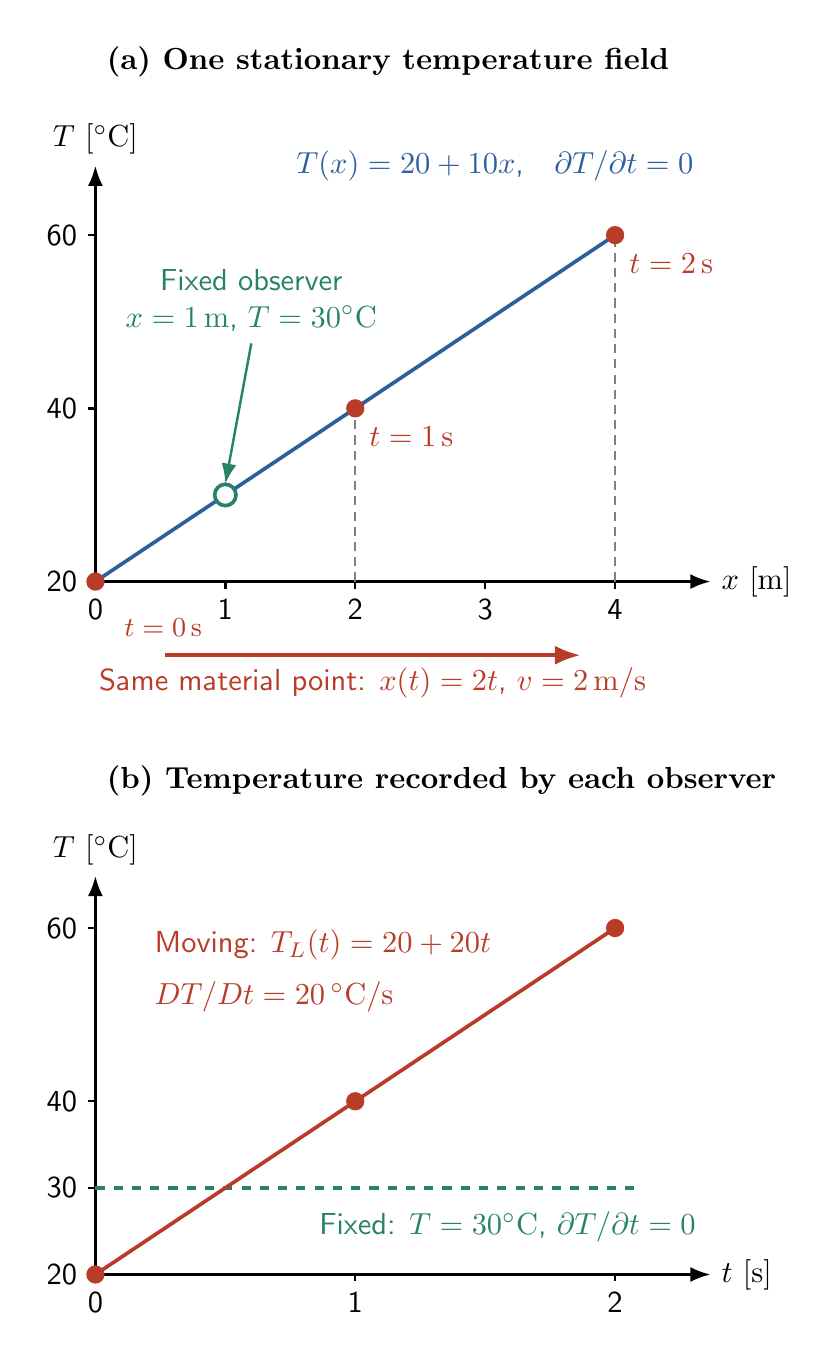
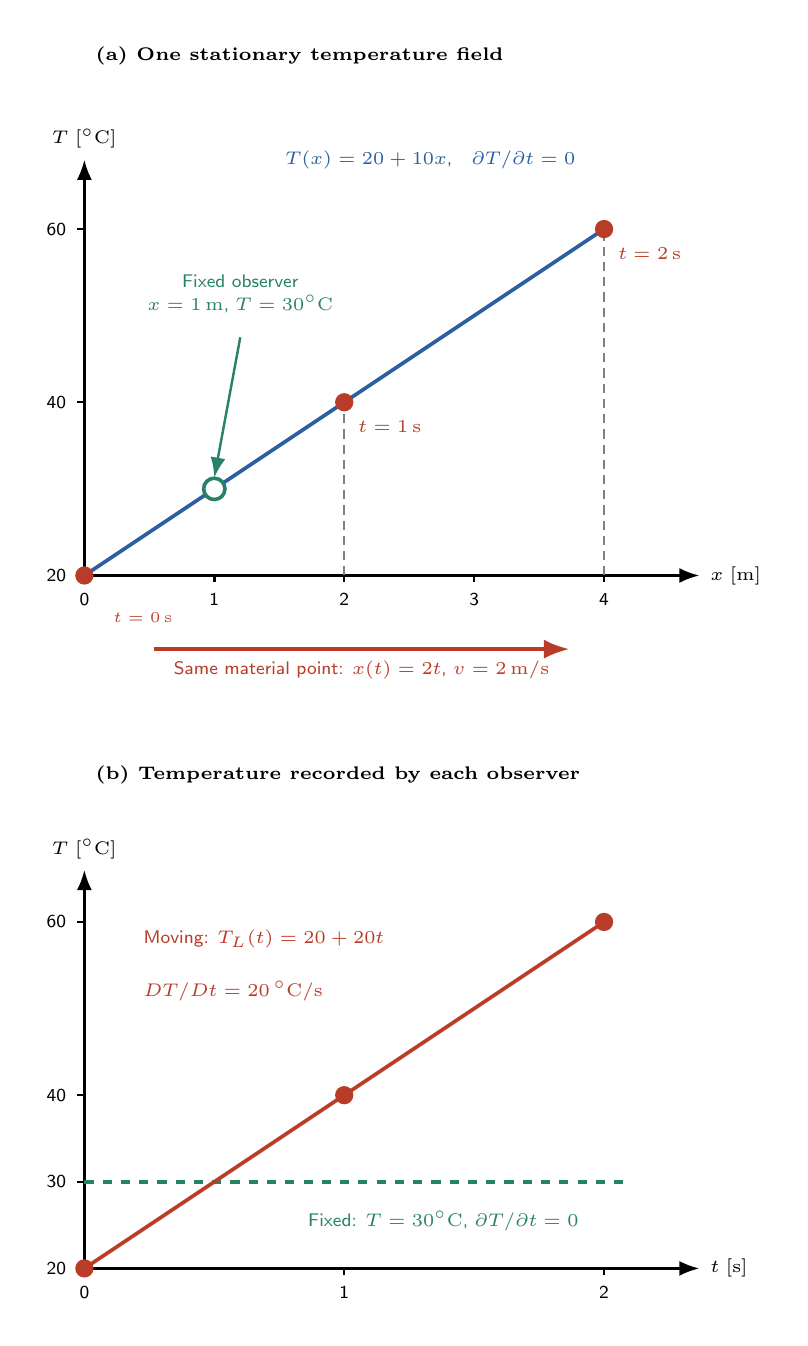
Fontsize adjusted in various tikz pictures

diff --git a/assets/tikz/metal_plasticity/extrusion_three_descriptions.tex b/assets/tikz/metal_plasticity/extrusion_three_descriptions.tex
@@ -11,15 +11,22 @@
 \draw[black!70,thick] (3.6,1.4)--(5,.55)--(7,.55);
 \draw[black!70,thick] (3.6,-1.4)--(5,-.55)--(7,-.55);
 }
+
+% Web figure typography: 220 dpi gives about 18 px for 6 pt text
+% at natural PNG size. Keep text smaller than diagram geometry.
+\newcommand{\figtext}{\fontsize{6}{7.5}\selectfont}
+\newcommand{\fignote}{\fontsize{5.5}{7}\selectfont}
+\newcommand{\figmath}{\fontsize{7}{8.5}\selectfont}
+\newcommand{\figtitle}{\fontsize{7.5}{9}\selectfont}
 \begin{document}
 \hyphenpenalty=10000
 \exhyphenpenalty=10000
-\begin{tikzpicture}[>=Latex,font=\sffamily,line join=round]
-\node[font=\Large\bfseries,align=center] at (3.5,4.8) {Extrusion\\Eulerian, Lagrangian and ALE};
+\begin{tikzpicture}[>=Latex,font=\sffamily\figtext,line join=round]
+\node[font=\figtitle\bfseries,align=center] at (3.5,4.8) {Extrusion\\Eulerian, Lagrangian and ALE};
 \node[text=gray!80!black,align=center] at (3.6,3.55) {Same material shape and die in every panel.\\Schematic meshes, not simulation results.};
 \foreach \dy/\title in {0/{(a) Eulerian: fixed background mesh},-8.3/{(b) Lagrangian: mesh follows material},-16.6/{(c) ALE: mesh motion chosen independently}}{
 \begin{scope}[shift={(0,\dy)}]
- \node[font=\bfseries,anchor=west] at (-.6,2.6) {\title};
+ \node[font=\figtext\bfseries,anchor=west] at (-.6,2.6) {\title};
  \fill[body] \bodypath;
 \end{scope}}
 % EULERIAN: fixed Cartesian cells cross the material boundary.
@@ -29,9 +36,9 @@
 \draw[flow,very thick] \bodypath;
 \draw[flow,->,very thick] (1.1,0)--(2.3,0);
 \draw[flow,->,very thick] (5.5,0)--(6.9,0);
-\node[flow,fill=white,inner sep=2pt,font=\small] at (1.8,.45) {Material flow};
-\node[font=\small,align=center,text width=8cm] at (3.5,-2.8) {$\boldsymbol w=\boldsymbol0$: material moves through fixed cells.\\Material interfaces can cut cells and need separate tracking.};
-\node[font=\small,align=center,text width=8cm] at (3.5,-4.5) {Fixed cells avoid deformation-induced mesh distortion.\\Moving material interfaces and contact require separate treatment.};
+\node[flow,fill=white,inner sep=2pt,font=\fignote] at (1.8,.45) {Material flow};
+\node[font=\fignote,align=center,text width=8cm] at (3.5,-2.8) {$\boldsymbol w=\boldsymbol0$: material moves through fixed cells.\\Material interfaces can cut cells and need separate tracking.};
+\node[font=\fignote,align=center,text width=8cm] at (3.5,-4.5) {Fixed cells avoid deformation-induced mesh distortion.\\Moving material interfaces and contact require separate treatment.};
 \end{scope}
 % LAGRANGIAN: a stylized convected mesh with skewed elements.
 \begin{scope}[shift={(0,-8.3)}]
@@ -46,8 +53,8 @@
 \draw[flow,very thick] \bodypath;
 \draw[flow,->,very thick] (1.1,0)--(2.3,0);
 \draw[flow,->,very thick] (5.5,0)--(6.9,0);
-\node[font=\small,align=center,text width=8cm] at (3.5,-2.8) {$\boldsymbol w=\boldsymbol v$: mesh points follow material.\\Material history stays with the mesh.};
-\node[font=\small,align=center,text width=8cm] at (3.5,-4.5) {A conforming mesh follows the material boundary.\\Large nonuniform deformation can severely distort elements.};
+\node[font=\fignote,align=center,text width=8cm] at (3.5,-2.8) {$\boldsymbol w=\boldsymbol v$: mesh points follow material.\\Material history stays with the mesh.};
+\node[font=\fignote,align=center,text width=8cm] at (3.5,-4.5) {A conforming mesh follows the material boundary.\\figtitle nonuniform deformation can severely distort elements.};
 \end{scope}
 % ALE: boundary fitted but interior mesh need not follow material.
 \begin{scope}[shift={(0,-16.6)}]
@@ -61,15 +68,15 @@
 \draw[flow,very thick] \bodypath;
 \draw[flow,->,very thick] (1.1,0)--(2.3,0);
 \draw[flow,->,very thick] (5.5,0)--(6.9,0);
-\node[font=\small,align=center,text width=8cm] at (3.5,-2.8) {Mesh velocity is chosen using quality and boundary constraints.\\Material crosses the mesh at $\boldsymbol v-\boldsymbol w$.};
-\node[font=\small,align=center,text width=8cm] at (3.5,-4.5) {Boundary-conforming mesh with controlled interior distortion.\\Mesh adjustment requires consistent transport of material history.};
+\node[font=\fignote,align=center,text width=8cm] at (3.5,-2.8) {Mesh velocity is chosen using quality and boundary constraints.\\Material crosses the mesh at $\boldsymbol v-\boldsymbol w$.};
+\node[font=\fignote,align=center,text width=8cm] at (3.5,-4.5) {Boundary-conforming mesh with controlled interior distortion.\\Mesh adjustment requires consistent transport of material history.};
 \end{scope}
 
 \draw[flow,very thick] (.3,-22.8)--(1,-22.8);
-\node[anchor=west,font=\small] at (1.3,-22.8) {Material boundary};
+\node[anchor=west,font=\fignote] at (1.3,-22.8) {Material boundary};
 \draw[meshblue,thin] (.3,-23.5)--(1,-23.5);
-\node[anchor=west,font=\small] at (1.3,-23.5) {Computational mesh};
+\node[anchor=west,font=\fignote] at (1.3,-23.5) {Computational mesh};
 \fill[pattern=north east lines,pattern color=gray!65] (.3,-24.4) rectangle (1,-24);
-\node[anchor=west,font=\small] at (1.3,-24.2) {Fixed die};
+\node[anchor=west,font=\fignote] at (1.3,-24.2) {Fixed die};
 \end{tikzpicture}
 \end{document}

diff --git a/assets/tikz/metal_plasticity/ale_mesh_comparison.tex b/assets/tikz/metal_plasticity/ale_mesh_comparison.tex
@@ -4,9 +4,16 @@
 \definecolor{mesh}{RGB}{40,105,170}
 \definecolor{particle}{RGB}{195,60,50}
 \definecolor{relative}{RGB}{20,135,105}
+
+% Web figure typography: 220 dpi gives about 18 px for 6 pt text
+% at natural PNG size. Keep text smaller than diagram geometry.
+\newcommand{\figtext}{\fontsize{6}{7.5}\selectfont}
+\newcommand{\fignote}{\fontsize{5.5}{7}\selectfont}
+\newcommand{\figmath}{\fontsize{7}{8.5}\selectfont}
+\newcommand{\figtitle}{\fontsize{7.5}{9}\selectfont}
 \begin{document}
-\begin{tikzpicture}[>=Latex,font=\sffamily,line cap=round]
-\node[font=\Large\bfseries] [align=center] at (2.25,8.3) {Material and mesh motion\\Three descriptions};
+\begin{tikzpicture}[>=Latex,font=\sffamily\figtext,line cap=round]
+\node[font=\figtitle\bfseries] [align=center] at (2.25,8.3) {Material and mesh motion\\Three descriptions};
 \node[text=gray!80!black,align=center] at (2.25,7.4) {$\boldsymbol v=(2,1)\,\mathrm{m/s}$\\$\Delta t=1\,\mathrm s$ in every panel};
 % One metre is represented by 0.7 cm in every spatial diagram.
 \foreach \offset/\title/\sx/\sy/\w/\rel in {
@@ -14,17 +21,17 @@
 -9/Lagrangian/1.4/0.7/{(2,1)}/{(0,0)},
 -18/ALE/0.7/0/{(1,0)}/{(1,1)}}{
 \begin{scope}[shift={(0,\offset)}]
-\node[font=\large\bfseries] at (2.25,6.7) {\title};
+\node[font=\figmath\bfseries] at (2.25,6.7) {\title};
 \node[mesh] at (2.25,6.2) {$\boldsymbol w=\w\,\mathrm{m/s}$};
-\node[anchor=west,font=\small\bfseries] at (0,5.7) {$t=0$};
+\node[anchor=west,font=\fignote\bfseries] at (0,5.7) {$t=0$};
 \begin{scope}[shift={(.2,3.8)}]\draw[mesh,step=.7,thin] (0,0) grid (2.8,1.4);\end{scope}
 % Highlight a specific mesh node, initially coincident with the material point.
 \draw[mesh,fill=white,line width=1pt] (.9,4.5) circle (4pt);
 \fill[particle] (.9,4.5) circle (2.4pt);
-\node[particle,anchor=west,font=\small,fill=white,inner sep=2pt] at (1.1,4.75) {Same material point};
+\node[particle,anchor=west,font=\fignote,fill=white,inner sep=2pt] at (1.1,4.75) {Same material point};
 \draw[->,gray] (4.4,4.9)--(4.4,3.55);
-\node[anchor=east,font=\small,text=gray] at (4.2,4) {$\Delta t$};
-\node[anchor=west,font=\small\bfseries] at (0,3.1) {$t=1\,\mathrm s$};
+\node[anchor=east,font=\fignote,text=gray] at (4.2,4) {$\Delta t$};
+\node[anchor=west,font=\fignote\bfseries] at (0,3.1) {$t=1\,\mathrm s$};
 % Old mesh is retained as a light reference; current mesh is solid blue.
 \begin{scope}[shift={(.2,.5)}]\draw[gray!35,dashed,step=.7,thin] (0,0) grid (2.8,1.4);\end{scope}
 \begin{scope}[shift={(\sx,\sy)}]
@@ -34,25 +41,25 @@
 \draw[particle!45,dashed,->] (.9,1.2)--(2.3,1.9);
 \draw[particle!45,fill=white] (.9,1.2) circle (2pt);
 \fill[particle] (2.3,1.9) circle (2.8pt);
-\node[particle,anchor=south,font=\small] at (2.3,2.12) {Material point};
-\node[mesh,anchor=north,font=\small] at (.9+\sx,.5+\sy-.14) {Same mesh node};
-\node[font=\small] at (2.25,-.35) {$\boldsymbol v-\boldsymbol w=\rel\,\mathrm{m/s}$};
+\node[particle,anchor=south,font=\fignote] at (2.3,2.12) {Material point};
+\node[mesh,anchor=north,font=\fignote] at (.9+\sx,.5+\sy-.14) {Same mesh node};
+\node[font=\fignote] at (2.25,-.35) {$\boldsymbol v-\boldsymbol w=\rel\,\mathrm{m/s}$};
 \end{scope}}
 
-\node[align=center,font=\small] at (2.25,-1.15) {Mesh stays fixed.\\Material passes through the mesh.};
-\node[align=center,font=\small] at (2.25,-10.15) {Mesh follows the material.\\The two markers stay together.};
-\node[align=center,font=\small] at (2.25,-19.15) {Mesh and material move differently.};
+\node[align=center,font=\fignote] at (2.25,-1.15) {Mesh stays fixed.\\Material passes through the mesh.};
+\node[align=center,font=\fignote] at (2.25,-10.15) {Mesh follows the material.\\The two markers stay together.};
+\node[align=center,font=\fignote] at (2.25,-19.15) {Mesh and material move differently.};
 \begin{scope}[shift={(.6,-22)}]
 \draw[mesh,->,very thick] (0,0)--(1.4,0) node[midway,below] {$\boldsymbol w$};
 \draw[draw=relative,->,very thick] (1.4,0)--(2.8,1.4) node[midway,right] {$\boldsymbol v-\boldsymbol w$};
 \draw[particle,->,very thick] (0,0)--(2.8,1.4) node[midway,above left] {$\boldsymbol v$};
 \end{scope}
-\node[font=\small,align=center,text=gray!80!black] at (2.25,-22.8) {Velocity triangle\\(separate scale)};
+\node[font=\fignote,align=center,text=gray!80!black] at (2.25,-22.8) {Velocity triangle\\(separate scale)};
 \fill[particle] (.3,-24) circle (2.8pt);
-\node[anchor=west,font=\small] at (.6,-24) {Material point};
+\node[anchor=west,font=\fignote] at (.6,-24) {Material point};
 \draw[mesh,fill=white,line width=1.2pt] (.3,-24.7) circle (4pt);
-\node[anchor=west,font=\small] at (.6,-24.7) {Tracked mesh node};
+\node[anchor=west,font=\fignote] at (.6,-24.7) {Tracked mesh node};
 \draw[gray!45,dashed] (.1,-25.4)--(.5,-25.4);
-\node[anchor=west,font=\small] at (.6,-25.4) {Initial mesh / position};
+\node[anchor=west,font=\fignote] at (.6,-25.4) {Initial mesh / position};
 \end{tikzpicture}
 \end{document}

diff --git a/assets/tikz/metal_plasticity/ale_extrusion_remapping.tex b/assets/tikz/metal_plasticity/ale_extrusion_remapping.tex
@@ -12,13 +12,20 @@
  \draw[thick] (3.6,-1.4)--(5,-.55)--(7,-.55);
 }
 
+
+% Web figure typography: 220 dpi gives about 18 px for 6 pt text
+% at natural PNG size. Keep text smaller than diagram geometry.
+\newcommand{\figtext}{\fontsize{6}{7.5}\selectfont}
+\newcommand{\fignote}{\fontsize{5.5}{7}\selectfont}
+\newcommand{\figmath}{\fontsize{7}{8.5}\selectfont}
+\newcommand{\figtitle}{\fontsize{7.5}{9}\selectfont}
 \begin{document}
-\begin{tikzpicture}[>=Latex,font=\sffamily,line join=round]
-\node[font=\Large\bfseries,align=center] at (3.5,5.7) {Extrusion\\ALE mesh rezoning};
-\node[font=\small,text=gray!80!black,align=center,text width=8cm] at (3.5,4.4) {Same physical time and material shape.\\Same mesh topology.\\Schematic meshes, not simulation results.};
+\begin{tikzpicture}[>=Latex,font=\sffamily\figtext,line join=round]
+\node[font=\figtitle\bfseries,align=center] at (3.5,5.7) {Extrusion\\ALE mesh rezoning};
+\node[font=\fignote,text=gray!80!black,align=center,text width=8cm] at (3.5,4.4) {Same physical time and material shape.\\Same mesh topology.\\Schematic meshes, not simulation results.};
 \foreach \panel/\dy/\title in {0/0/{(a) Before mesh smoothing},1/-9/{(b) After ALE mesh smoothing}}{
 \begin{scope}[shift={(0,\dy)}]
-\node[font=\bfseries] at (3.5,3.4) {\title};
+\node[font=\figtext\bfseries] at (3.5,3.4) {\title};
 \fill[material!40] \boundary;
 \begin{scope}
 \clip \boundary;
@@ -43,26 +50,26 @@
 \fill[gray!30] (-.35,-1.4) rectangle (0,1.4);
 \draw[thick] (-.35,-1.4) rectangle (0,1.4);
 \draw[->,very thick] (-.9,0)--(.8,0);
-\node[anchor=south,font=\small] at (.3,.2) {Ram};
+\node[anchor=south,font=\fignote] at (.3,.2) {Ram};
 \draw[->,very thick] (6.1,0)--(7.7,0);
-\node[anchor=south,font=\small] at (6.9,.2) {Flow};
-\node[font=\small,fill=white,inner sep=2pt] at (5.9,1.5) {Fixed die};
+\node[anchor=south,font=\fignote] at (6.9,.2) {Flow};
+\node[font=\fignote,fill=white,inner sep=2pt] at (5.9,1.5) {Fixed die};
 \ifnum\panel=0
 \fill[history] (3.65,.34) circle (2.8pt);
-\node[history,align=center,font=\small] at (3.5,2.65) {Old integration-point samples};
+\node[history,align=center,font=\fignote] at (3.5,2.65) {Old integration-point samples};
 \draw[history,->] (3.5,2.35)--(3.65,.43);
-\node[align=center,font=\small,text width=8cm] at (3.5,-2.65) {Material-following elements become distorted.\\Samples store stress, hardening and $\bar\varepsilon^p$.};
+\node[align=center,font=\fignote,text width=8cm] at (3.5,-2.65) {Material-following elements become distorted.\\Samples store stress, hardening and $\bar\varepsilon^p$.};
 \else
 \foreach \x/\y in {3.75/.25,4.25/.22,4.75/.18}{\draw[history,fill=white,line width=1pt] (\x,\y) circle (2.8pt);}
-\node[history,align=center,font=\small] at (3.5,2.65) {New integration-point samples};
+\node[history,align=center,font=\fignote] at (3.5,2.65) {New integration-point samples};
 \draw[history,->] (3.5,2.35)--(3.75,.34);
-\node[align=center,font=\small,text width=8cm] at (3.5,-2.65) {Interior nodes are repositioned.\\Material history is transferred to the new sampling locations.};
+\node[align=center,font=\fignote,text width=8cm] at (3.5,-2.65) {Interior nodes are repositioned.\\Material history is transferred to the new sampling locations.};
 \fi
 \end{scope}}
 \draw[->,very thick,black!70] (3.5,-3.5)--(3.5,-4.8);
-\node[align=center,font=\small,fill=white,inner sep=3pt] at (3.5,-4.15) {Rezone mesh\\and remap state};
+\node[align=center,font=\fignote,fill=white,inner sep=3pt] at (3.5,-4.15) {Rezone mesh\\and remap state};
 \draw[history!25,line width=8pt] (.8,-13)--(1.5,-13);
-\node[anchor=west,align=left,font=\small] at (1.8,-13) {Same physical state field\\before and after remapping};
-\node[align=center,font=\small,text width=8cm,text=gray!85!black] at (3.5,-14.3) {Rezoning is a numerical mesh change,\\not additional material deformation.\\State transfer must respect history and conservation.};
+\node[anchor=west,align=left,font=\fignote] at (1.8,-13) {Same physical state field\\before and after remapping};
+\node[align=center,font=\fignote,text width=8cm,text=gray!85!black] at (3.5,-14.3) {Rezoning is a numerical mesh change,\\not additional material deformation.\\State transfer must respect history and conservation.};
 \end{tikzpicture}
 \end{document}

diff --git a/assets/tikz/data_mse/cross_product_area.tex b/assets/tikz/data_mse/cross_product_area.tex
@@ -1,5 +1,6 @@
 \documentclass[tikz,border=12pt]{standalone}
 \usepackage{amsmath}
+\usepackage{kotex}
 \usetikzlibrary{arrows.meta,angles,quotes}
 \definecolor{avec}{RGB}{35,100,175}
 \definecolor{bvec}{RGB}{195,70,45}
@@ -11,7 +12,7 @@
 \coordinate (B) at (1.8,3.2);
 \coordinate (C) at (6.6,3.2);
 \coordinate (H) at (1.8,0);
-\node[font=\large\bfseries] [align=center] at (3.2,4.55) {Cross product\\and parallelogram area};
+\node[font=\large\bfseries] [align=center] at (3.2,4.55) {벡터 외적와 평행사변형의 넓이};
 \fill[avec!12] (O)--(A)--(C)--(B)--cycle;
 \draw[gray!75,dashed,thick] (A)--(C)--(B);
 \draw[avec,->,very thick] (O)--(A) node[midway,below=5pt] {$\boldsymbol a$};
@@ -28,11 +29,11 @@
 \node[below right=3pt] at (A) {$\boldsymbol a$};
 % For the displayed orientation a to b is counterclockwise: a x b points out.
 
-\draw[normal,very thick] (1.3,-1.35) circle (0.19);
-\fill[normal] (1.3,-1.35) circle (2pt);
-\node[normal,align=left,anchor=west] at (1.8,-1.35) {$\boldsymbol a\times\boldsymbol b$ points out of the page.};
-\node[align=center,font=\small,text=gray!80!black] at (3.2,-2.1) {The cross product is perpendicular\\to the vector plane.};
+\draw[normal,very thick] (0.8,-1.35) circle (0.19);
+\fill[normal] (0.8,-1.35) circle (2pt);
+\node[normal,align=left,anchor=west] at (1.0,-1.35) {$\boldsymbol a\times\boldsymbol b$의 결과 벡터는 보는 이를 향함};
+\node[align=center,font=\small,text=gray!80!black] at (3.2,-2.1) {벡터 외적은 벡터 평면에 수직.};
 \node[font=\large,align=center] at (3.2,-3.1) {$S=|\boldsymbol a|\,|\boldsymbol b|\sin\theta$\\$\boxed{S=|\boldsymbol a\times\boldsymbol b|}$};
-\node[font=\small,align=center,text=gray!80!black] at (3.2,-4.25) {The cross product is a vector.\\Its magnitude is the parallelogram area.};
+\node[font=\small,align=center,text=gray!80!black] at (3.2,-4.25) {벡터 외적은 벡터이다.\\그 크기는 평행사변형의 넓이.};
 \end{tikzpicture}
 \end{document}

diff --git a/assets/tikz/metal_plasticity/material_derivative_temperature.tex b/assets/tikz/metal_plasticity/material_derivative_temperature.tex
@@ -4,10 +4,17 @@
 \definecolor{field}{RGB}{45,95,160}
 \definecolor{particle}{RGB}{185,60,40}
 \definecolor{observer}{RGB}{40,130,105}
+
+% Web figure typography: 220 dpi gives about 18 px for 6 pt text
+% at natural PNG size. Keep text smaller than diagram geometry.
+\newcommand{\figtext}{\fontsize{6}{7.5}\selectfont}
+\newcommand{\fignote}{\fontsize{5.5}{7}\selectfont}
+\newcommand{\figmath}{\fontsize{7}{8.5}\selectfont}
+\newcommand{\figtitle}{\fontsize{7.5}{9}\selectfont}
 \begin{document}
-\begin{tikzpicture}[>=Latex,font=\sffamily,thick]
+\begin{tikzpicture}[>=Latex,font=\sffamily\figtext,thick]
 % Vertical coordinates represent (T - 20 deg C) / 10.
-\node[anchor=west,font=\bfseries] at (0,6.0) {(a) One stationary temperature field};
+\node[anchor=west,font=\figtext\bfseries] at (0,6.0) {(a) One stationary temperature field};
 \draw[->] (0,0)--(7.1,0) node[right] {$x\ [\mathrm m]$};
 \draw[->] (0,0)--(0,4.8) node[above] {$T\ [^\circ\mathrm C]$};
 \foreach \x in {0,1,2,3,4} {
@@ -29,7 +36,7 @@
       {$t=\time\,\mathrm s$};
   \fi
 }
-\node[particle,anchor=north west,font=\small,inner sep=2pt] at (0.25,-0.35) {$t=0\,\mathrm s$};
+\node[particle,anchor=north west,font=\fignote,inner sep=2pt] at (0.25,-0.35) {$t=0\,\mathrm s$};
 \draw[observer,fill=white,very thick] (1.5,1) circle (3.5pt);
 \draw[observer,->] (1.8,2.75)--(1.5,1.13);
 \node[observer,align=center] at (1.8,3.25) {Fixed observer\\$x=1\,\mathrm m$, $T=30^\circ\mathrm C$};
@@ -37,7 +44,7 @@
   node[midway,below] {Same material point: $x(t)=2t$, $v=2\,\mathrm{m/s}$};
 
 \begin{scope}[shift={(0,-8.0)}]
-  \node[anchor=west,font=\bfseries] at (0,5.7) {(b) Temperature recorded by each observer};
+  \node[anchor=west,font=\figtext\bfseries] at (0,5.7) {(b) Temperature recorded by each observer};
   \draw[->] (0,0)--(7.1,0) node[right] {$t\ [\mathrm s]$};
   \draw[->] (0,0)--(0,4.6) node[above] {$T\ [^\circ\mathrm C]$};
   \foreach \x/\time in {0/0,3/1,6/2} {

diff --git a/assets/lecture_notes/1_2_data_mse/data_mse_11_벡터연산기초.md b/assets/lecture_notes/1_2_data_mse/data_mse_11_벡터연산기초.md
@@ -340,7 +340,7 @@ $$
 \sin\theta
 $$
 
-![두 벡터가 만드는 평행사변형의 밑변, 높이, 끼인각과 외적의 방향](/assets/img/lecture_notes/data_mse/cross_product_area.png)
+![두 벡터가 만드는 평행사변형의 밑변, 높이, 끼인각과 외적의 방향](/assets/img/lecture_notes/data_mse/cross_product_area.png){: style="max-width: 100%; height: auto;"}
 
 그림에서 파란 벡터 $\boldsymbol a$를 밑변으로 잡으면 밑변의 길이는
 $|\boldsymbol a|$이다. 빨간 벡터 $\boldsymbol b$의 끝에서 밑변에 수선을 내리면
